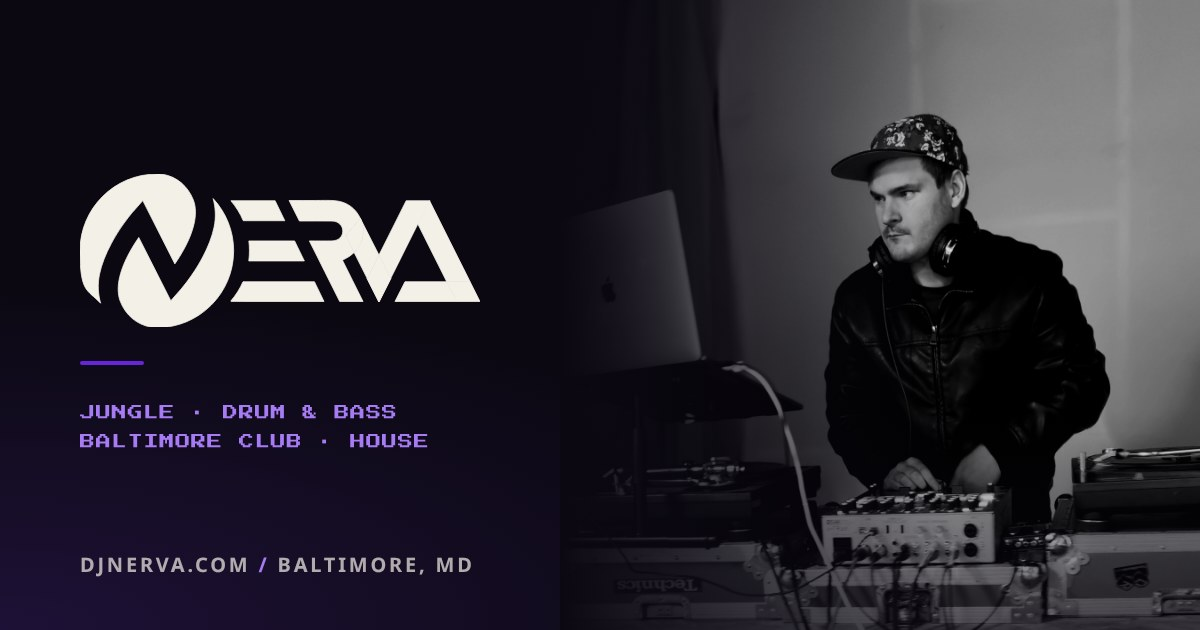
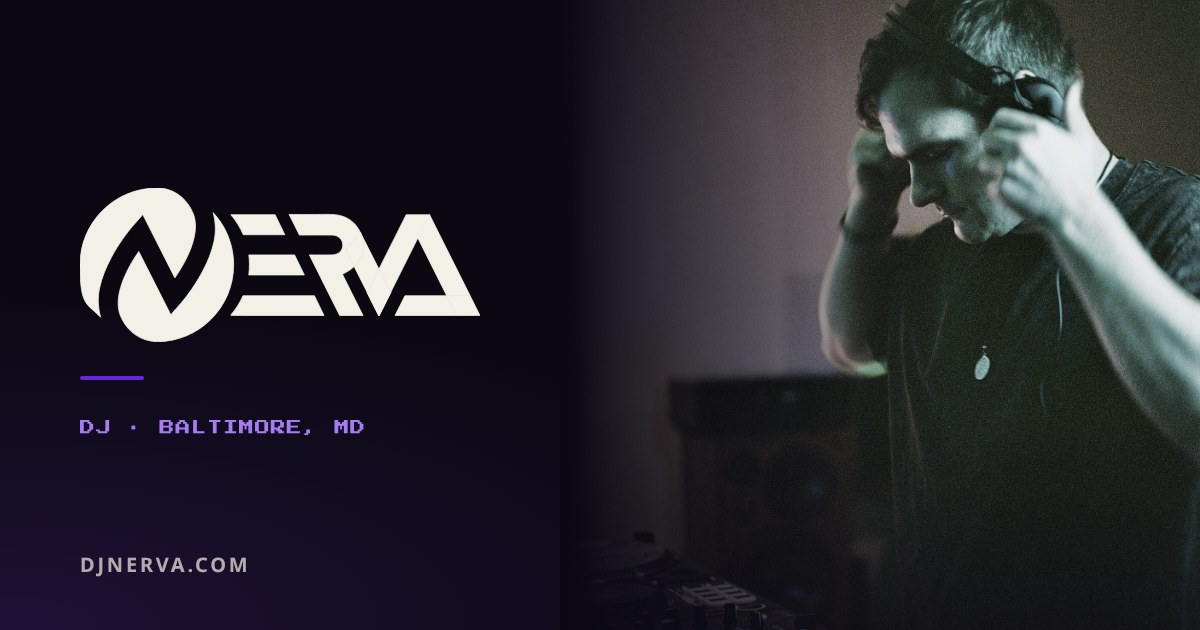
Social card: hardware-only photo, no genre labels
Swap to the headphones press photo (no laptop in frame), replace the
genre kicker with 'DJ · Baltimore, MD', and drop genres from the
og/twitter title and description.

Claude-Session: https://claude.ai/code/session_01Aw2oTw1wd85AxG7bNaRWYE

diff --git a/index.html b/index.html
@@ -27,22 +27,22 @@
     <meta name="author" content="DJ Nerva">
     <meta property="og:type" content="website">
     <meta property="og:site_name" content="DJ Nerva">
-    <meta property="og:title" content="DJ Nerva | Baltimore Jungle, Drum &amp; Bass and Club DJ">
+    <meta property="og:title" content="DJ Nerva | Baltimore DJ">
     <meta property="og:description"
-        content="Baltimore DJ spinning jungle, drum &amp; bass, Baltimore club, techno and house. Listen to mixes and book DJ Nerva.">
-    <meta property="og:image" content="https://djnerva.com/og-image.jpg?v=78d0aac52c">
+        content="Baltimore DJ Nerva. Listen to mixes and book for clubs, parties and events.">
+    <meta property="og:image" content="https://djnerva.com/og-image.jpg?v=56d802a735">
     <meta property="og:image:width" content="1200">
     <meta property="og:image:height" content="630">
     <meta property="og:image:type" content="image/jpeg">
-    <meta property="og:image:alt" content="DJ Nerva logo beside a photo of Nerva mixing on turntables">
+    <meta property="og:image:alt" content="DJ Nerva logo beside a photo of Nerva behind the decks in headphones">
     <meta property="og:locale" content="en_US">
     <meta property="og:url" content="https://djnerva.com/">
     <meta name="twitter:card" content="summary_large_image">
-    <meta name="twitter:title" content="DJ Nerva | Baltimore Jungle, Drum &amp; Bass and Club DJ">
+    <meta name="twitter:title" content="DJ Nerva | Baltimore DJ">
     <meta name="twitter:description"
-        content="Baltimore DJ spinning jungle, drum &amp; bass, Baltimore club, techno and house. Listen to mixes and book DJ Nerva.">
-    <meta name="twitter:image" content="https://djnerva.com/og-image.jpg?v=78d0aac52c">
-    <meta name="twitter:image:alt" content="DJ Nerva logo beside a photo of Nerva mixing on turntables">
+        content="Baltimore DJ Nerva. Listen to mixes and book for clubs, parties and events.">
+    <meta name="twitter:image" content="https://djnerva.com/og-image.jpg?v=56d802a735">
+    <meta name="twitter:image:alt" content="DJ Nerva logo beside a photo of Nerva behind the decks in headphones">
     <script type="application/ld+json" data-cfasync="false">
 {
   "@context": "https://schema.org",
@@ -52,7 +52,7 @@
   "alternateName": "Nerva",
   "jobTitle": "DJ",
   "url": "https://djnerva.com/",
-  "image": "https://djnerva.com/og-image.jpg?v=78d0aac52c",
+  "image": "https://djnerva.com/og-image.jpg?v=56d802a735",
   "description": "Baltimore DJ playing jungle, drum & bass, Baltimore club, techno and house.",
   "email": "mailto:booking@djnerva.com",
   "homeLocation": {

diff --git a/scripts/build_og_image.js b/scripts/build_og_image.js
@@ -14,7 +14,7 @@ const path = require('path');
 const { chromium } = require('playwright');
 
 const ROOT = path.resolve(__dirname, '..');
-const PHOTO = 'press-kit/Images/IMG_9254.jpg';
+const PHOTO = 'press-kit/Images/000023590021-small.jpg';
 const OUT = path.join(ROOT, 'og-image.jpg');
 
 // Mirrors the :root[data-palette] blocks in simplified-style.css.
@@ -28,7 +28,7 @@ const PALETTES = {
 const name = process.argv[2] || 'violet';
 const p = PALETTES[name];
 if (!p) throw new Error(`Unknown palette "${name}"`);
-const tint = name === 'mono' ? 1 : 0.55;
+const tint = name === 'mono' ? 1 : 0.65;
 
 const logo = fs.readFileSync(path.join(ROOT, 'logo.svg'), 'utf8')
   .replace(/<\?xml[^>]*\?>/, '')
@@ -47,8 +47,8 @@ const html = `<!doctype html><html><head><meta charset="utf-8">
   }
   .photo { position: absolute; inset: 0 0 0 auto; width: 640px; isolation: isolate; }
   .photo img {
-    width: 100%; height: 100%; object-fit: cover; object-position: 62% 40%;
-    filter: saturate(0.55) contrast(1.08) brightness(0.9);
+    width: 100%; height: 100%; object-fit: cover; object-position: 50% 22%;
+    filter: saturate(0.2) contrast(1.08) brightness(0.92);
   }
   .photo::before {                 /* palette tint, as on the site */
     content: ''; position: absolute; inset: 0; background: ${p.primary};
@@ -74,15 +74,14 @@ const html = `<!doctype html><html><head><meta charset="utf-8">
     font-size: 20px; font-weight: 700; letter-spacing: 0.14em; text-transform: uppercase;
     color: color-mix(in srgb, #f3f0e8 70%, transparent);
   }
-  .foot b { color: ${p.accent}; font-weight: 700; }
 </style></head><body>
   <div class="photo"><img src="file://${path.join(ROOT, PHOTO)}" alt=""></div>
   <div class="copy">
     <div class="logo">${logo}</div>
     <div class="rule"></div>
-    <div class="kicker">Jungle &middot; Drum &amp; Bass<br>Baltimore Club &middot; House</div>
+    <div class="kicker">DJ &middot; Baltimore, MD</div>
   </div>
-  <div class="foot">djnerva.com <b>/</b> Baltimore, MD</div>
+  <div class="foot">djnerva.com</div>
 </body></html>`;
 
 (async () => {
